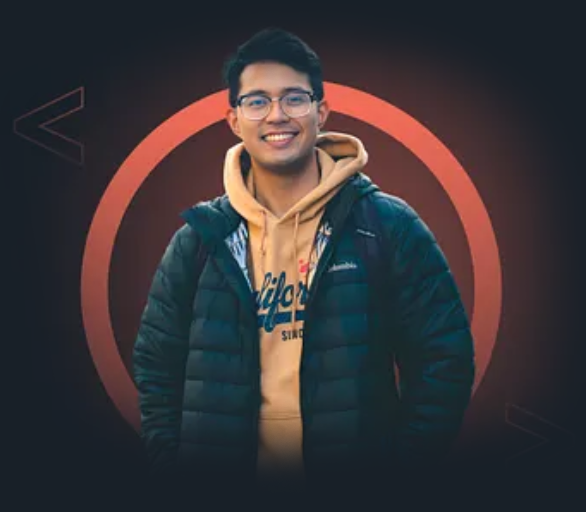
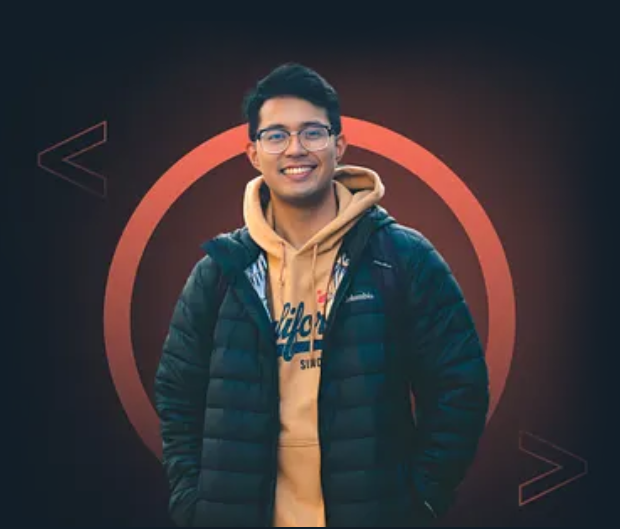
fixed margin

diff --git a/src/componenets/Hero.jsx b/src/componenets/Hero.jsx
@@ -10,18 +10,18 @@ function Button({label, dark}){
 }
 function Hero() {
   return (
-    <div className={ `bg-[#121e28] h-[100vh] lg:h-[70vh] text-white lg:flex lg:justify-around lg:items-center 2xl:px-[200px] xl:px-[100px] `}>
-      <div className={`text-center lg:text-left px-5 pt-[40px] lg:pt-[0px] flex flex-col gap-[20px] lg:w-[60%]`}>
+    <div className={ `bg-[#121e28] lg:h-[70vh] px-5 text-white lg:flex lg:justify-around lg:items-center 2xl:px-[200px] xl:px-[100px] `}>
+      <div className={`text-center lg:text-left pt-[40px] lg:pt-[0px] flex flex-col gap-[20px] lg:w-[50%]`}>
         <h2 className="font-bold text-4xl lg:text-6xl">
           <span>Hello</span>
           <span className="bg-[#f66f5c] rounded-full mx-1 w-[10px] inline-block h-[10px] relative"></span>
         </h2>
-        <p className="text-3xl lg:text-5xl relative flex flex-col items-center gap-2 z-0">
+        <p className="text-3xl lg:text-5xl relative flex flex-col items-center lg:items-start lg:left-[100px] gap-2 z-0">
           <span className="font-[Playwrite_CA] font-thin lg:py-5">I'm Vishwajeet</span>
           <span className="w-[150px] h-[3px] bg-[#f66f5c]"></span>
         </p>
         <h1 className="font-bold text-4xl lg:text-6xl">Web Developer</h1>
-        <div className=" flex justify-center lg:justify-start gap-5">
+        <div className=" flex justify-center lg:justify-start gap-5 lg:my-8">
           <Button label={"Get a Project"}/>
           <Button label={"My Resume"} dark/>
         </div>
@@ -29,9 +29,12 @@ function Hero() {
       {/*image*/}
       <div 
         style={{
+          backgroundImage:`url(${image})`,
+          backgroundSize:'100%',
+          backgroundPosition:'center bottom',
+          backgroundRepeat:'no-repeat',
         }}
-        className="py-10 flex justify-center lg:w-[40%]">
-        <img src={image} alt=""/>
+        className="py-10 flex justify-center lg:w-[50%] h-[300px] w-[350px] m-auto lg:h-[100%] bg-cover bg-center">
       </div>
     </div>
   )

diff --git a/src/App.jsx b/src/App.jsx
@@ -10,7 +10,7 @@ function App() {
     <div>
       <Navbar/>
       <Hero/>
-      {/*<Skill_Slider/>*/}
+      <Skill_Slider/>
       <About/>
       <Footer />
     </div>
